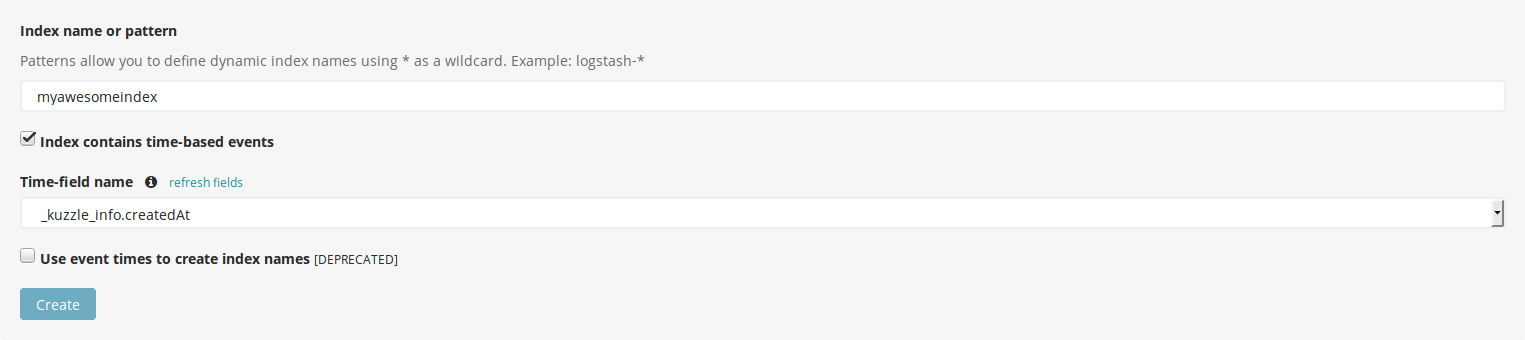
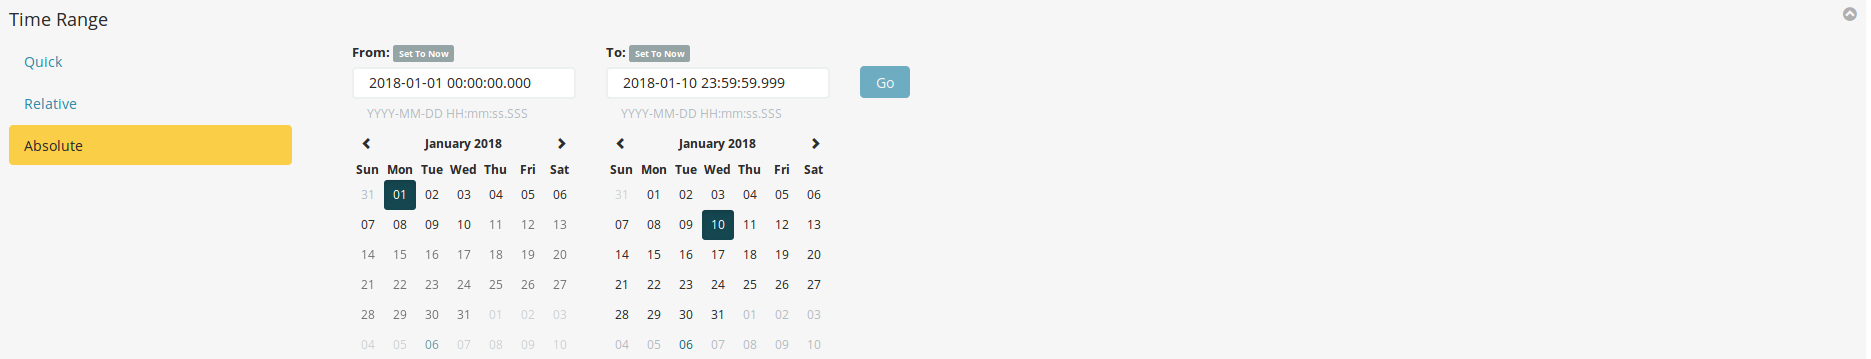
continue tuto

diff --git a/kibana.md b/kibana.md
@@ -101,19 +101,38 @@ The file you just imported contain sample data from IoT sensor, we have temperat
 
 Now it's time to go to Kibana console for some configurations ! Browse http://localhost:5601 and you will arrive to the management page of Kibana.
 
-Having data is cool but having data over the time for making visualizations is better.
-Lucky we are, Kuzzle store timestamp in metafields of documents, but we have to tel Kibana what field is metafield.
-Click on "Advanced Settings" and find the "metaFields" input, click on the edit button on the right and add "_kuzzle_info.createdAt", click on the save button and that's all !
 
-![Kibana-advanced-settings](img/kibana1.png)
+We have to give to Kibana the index name we just created in Kuzzle. Type 'myawesomeindex' in the input text. Kibana will automatically find the time based field. Click on "Create" button.
 
-We have to give to Kibana the index name we just created in Kuzzle. Click on "Index Patterns" and type 'myawesomeindex' in the text field. Kibana will automatically find the time based field we just added in settings. Click on "Create" button
+![Kibana-index-pattern](img/kibana1.png)
 
-![Kibana-index-pattern](img/kibana2.png)
+Kibana will parse every searchable or aggreagatable fields and show you these fields. 
 
-Kibana will parse every searchable field and show you these fields. We just finishing configuring.
+We just finishing configuring.
 
 ## 3- Create visualizations and dashboard
 
-It's the fun part of this tutorial and that's why you are here ! We will create 3 graphs with the datas previously added in Kuzzle, ready? let's go!
+It's the fun part of this tutorial and that's why you are here ! We will create one graph with the datas previously added in Kuzzle, ready? let's go!
+
+Click on "Visualize" button on left menu and click on "Create a visualization".
+
+Our first graph will be a bar graph of humidity variation, so choose "Vertical Bar" and choose your index by clicking on "myawesomeindex".
+
+Kibana is a great tool for visualizing data in real time, but in this tutorial, for easy comprehension we use an extract of a big JSON dump with a date field. First thing to do is to select a time period. Click on time range button on the top right corner (by default it's set to "Last 15 minutes"), now click on "Absolute" and choose a range in the dates pickers. The JSON dump we use start to 01-01-2018 and end to 01-10-2018, so pick these dates and validate.
+
+![Kibana-time-range](img/kibana2.png)
+
+We need to configure our graph, first, the Y axis :
+Unfold the "Y-axis" menu and we have to choose an aggregation, select "Average" in the dropdown menu. Next we have to choose the field we want to aggregate. Like I said, we build a graph about relative humidity, so select this field. It's possible to enter a custom label to embellish our graph, do not deprive us and type "Humidity" in the the text box meant for that purpose.
+
+![Kibana-y-axis](img/kibana3.png)
+
+It's time to configure the X axis, we want to sort our humidity data by date.
+Click on the "X-Axis" button and select "Date Histogram". Kibana automatically select the date field but we have to choose an interval, pick a daily interval in the dropdown menu. And like previously type a custom label, for exemple "Date".
+
+![Kibana-x-axis](img/kibana4.png)
+
+Now click on the "Apply change" button ![Kibana-apply-button](img/kibana-apply-button.png) to see our beautiful graph.
+
+![Kibana-bar-graph](img/kibana5.png)
 
